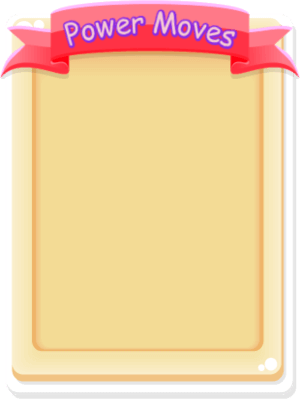
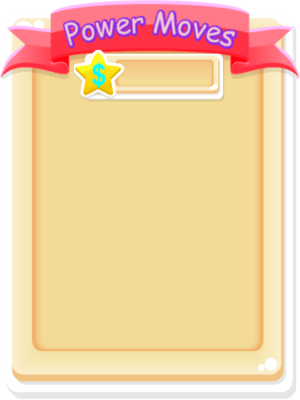
starcash

Changed region(s): [[0.24, 0.12, 0.75, 0.27]]

diff --git a/GuiFruitBubbles/bubbles.css b/GuiFruitBubbles/bubbles.css
@@ -17,7 +17,7 @@ screen.lockOrientation("portrait");
 	}
 	
 .gameSounds { display: none;}
-#fruitylogo {margin-left: 1%; top:2%;}
+#fruitylogo {margin-left: 1%; top:20%;}
 #selectPowerMove{background-image: url("Effects/powerMoveBack.png" );
 width: 95%;
 max-width: 300px;
@@ -43,7 +43,7 @@ display: block;
     background: radial-gradient(#3385ff, #ffb3d1); /* Standard syntax */
 	max-height: 100px;
 	max-width 290px;
-	margin-top: 70px;
+	margin-top: 100px;
 	margin-left: 36px;
 	margin-right: 30px;
 	clear: left;
@@ -62,8 +62,7 @@ position: relative;
 	font-weight: bold;
 	font-style:Comic Sans MS;
 	color: #cc3399;
-	
-}
+	}
 #pwr1Txt2 { transform: translate3d(-60px,55px, 0);
  font-size: 18px; font-weight: bold; text-decoration: none; 
  padding-top: 3px;
@@ -78,13 +77,23 @@ position: relative;
 	width: 75px; height: 60px; position: relative; float: left;
 	transform: translate3d(10px,-1px, 0);
 }
+#specialstarCash {
+	position: absolute;
+	margin-left: 140px;
+	top: 40px;
+	font-style: Comic Sans MS;
+	font-weight: bold;
+	font-size: 24px;
+	z-index: 2000;
+	color: #ff1493;
+}
 
 
 #levelup1 {
  position: absolute;
  left: 50%;
  transform: translate3d(-265px,0, 0); 
- top: 12%;
+ top: 5%;
  margin-left: auto;
   margin-right: auto;
   display: none;
@@ -111,8 +120,9 @@ display: none;
 }
 #starPop1 {
 	position: absolute;
-margin-top: 120px;
+margin-top: 10px;
 left: 36%;
+transform: translate(-10px,-125px);
 
 }
 
@@ -240,7 +250,7 @@ animation-name: inStreakUp;
 	top: 20%;
 	text-align: center;
 	left:50%;
-	transform: translate(-90px,-8px);
+	transform: translate(-90px,10px);
 }
 #intro {
 	position: absolute;
@@ -270,7 +280,7 @@ animation-name: inStreakUp;
 	top: 28%;
 	text-align: center;
 	left:50%;
-	transform: translate(-90px,-15px);
+	transform: translate(-90px,-5px);
 	margin-top: 10px;
 }
 #levelSelect {
@@ -280,7 +290,8 @@ transform: translate(-90px,40px);
 	position: relative;
 	display: block;
 	left: 50%;
-	transform: translate(-155px,-3px);
+	
+	transform: translate(-160px,50px);
 	max-width: 300px;
 	}
 #saveAndLoad {
@@ -494,11 +505,11 @@ margin-left: 20%;
 #starPop1 {left: 42% }
 #nice, #awesome{left: 2%; top:50%;}
 #intro { margin-left: 0%; width: 100%;}
-.introdiv {padding-left 1%; margin-left: 0%; height: 90%;}
-#fruitylogo {margin-left: 5%; height: 600px; width: 600px; top: 18%;}
-#playGame { margin-left: 5%; margin-right: 20%; width:18%; top: 30%;}
-#loadSaved{ margin-left: 5%; margin-right: 20%; width:18%; top: 35%;}
-#levelSelect {margin-left: 5%; margin-right: 20%; width:18%; top:36%;}
+.introdiv {padding-left 1%; margin-left: 0%; height: 90%; transform: translate(-150px, 200px);}
+#fruitylogo {margin-left: 5%; height: 600px;  top: 20%;}
+#playGame { margin-left: 5%; margin-right: 20%; width:18%; top: 28%;}
+#loadSaved{ margin-left: 5%; margin-right: 20%; width:18%; top: 33%;}
+#levelSelect {margin-left: 5%; margin-right: 20%; width:18%; top:35%;}
 #saveAndLoad {margin-left: 50%;}
 #hotstreak{left: 50%; transform: translate(-150px,-980px); }
 #mapDiv {
@@ -528,8 +539,8 @@ margin-left: 15%;
 #levelup1 {left: 70%}
 #starPop1 {left: 45% }
 #nice, #awesome{left: 2%; top:50%;}
-#intro { margin-left: 0%; width: 100%;}
-.introdiv {padding-left 1%; margin-left: 5%;}
+#intro { margin-left: 0%; width: 100%; }
+.introdiv {padding-left 1%; margin-left: 5%; transform: translate(-150px, 200px); }
 #fruitylogo {margin-left: 5%; height: 500px; top: 20%;}
 #playGame { margin-left: 6%; margin-right: 20%; width:20%; top: 35%;}
 #loadSaved{ margin-left: 6%; margin-right: 20%; width:20%; top: 45%;}
@@ -564,9 +575,9 @@ padding-left: 1%;
 #intro { margin-left: 0%; width: 100%;}
 .introdiv {padding-left 1%; margin-left: 1%;}
 #fruitylogo {margin-left: 0%; top:16%; width: 100%}
-#playGame { margin-left: 0%;  width:45%; top: 36%;}
-#loadSaved{ margin-left: 0%;  width:45%; top: 44%;}
-#levelSelect { margin-left: 0%;  width:45%; top: 44%;}
+#playGame { margin-left: 0%;  width:40%; top: 26%;}
+#loadSaved{ margin-left: 0%;  width:40%; top: 35%;}
+#levelSelect { margin-left: 0%;  width:40%; top: 36%;}
 #leftspot { width:120px;}
 .selectzone1 {margin-left: 30px;}
 #saveAndLoad {margin-left: 50%;}
@@ -625,9 +636,9 @@ width:635px;
 #nice, #awesome{left: 9%; top:52%;}
 #fruitylogo {margin-left: 1%; top:10%;}
 .introdiv {padding-left 0px; margin-left: 5%;}
-#playGame { margin-left: 0%; margin-right: 20%; width:40%;   top: 30%;}
-#loadSaved { margin-left: 0%; margin-right: 20%; width:40%;  top: 47%;}
-#levelSelect {transform: translate(-90px,125px); width:40%;}
+#playGame { margin-left: 0%; margin-right: 20%; width:40%;   top: 25%;}
+#loadSaved { margin-left: 0%; margin-right: 20%; width:40%;  top: 35%;}
+#levelSelect {transform: translate(-90px,100px); width:40%;}
 #leftspot { width:120px;}
 .selectzone1 {margin-left: 30px;}
 #hotstreak{left: 50%; transform: translate(-175px,-615px); }
@@ -658,9 +669,9 @@ width:555px;
 #nice, #awesome{left: 9%; top:52%;}
 #fruitylogo {margin-left: 1%; top:10%;}
 .introdiv {padding-left 0px; margin-left: 5%;}
-#playGame { margin-left: 0%; margin-right: 20%; width:40%;   top: 30%;}
-#loadSaved { margin-left: 0%; margin-right: 20%; width:40%;  top: 41%;}
-#levelSelect {transform: translate(-90px,145px); width:40%;}
+#playGame { margin-left: 0%; margin-right: 20%; width:40%;   top: 27%;}
+#loadSaved { margin-left: 0%; margin-right: 20%; width:40%;  top: 36%;}
+#levelSelect {transform: translate(-90px,100px); width:40%;}
 #leftspot { width:100px;}
 .selectzone1 {margin-left: 20px;}
 #hotstreak{left: 50%; transform: translate(-155px,-616px); }
@@ -726,16 +737,16 @@ width:500px;
 #levelup1 {margin-left: 247px;}
 #nice, #awesome{left: 9%; top:49%;}
 #fruitylogo {margin-left: 1%; top:10%;}
-.introdiv {padding-left: 10px; margin-left: 4%;}
-#playGame { margin-left: 5%; margin-right: 20%; width:50%;  padding-top: 1px; top: 32%;}
-#loadSaved { margin-left: 5%; margin-right: 20%; width:50%;  top: 41%;}
-#levelSelect {transform: translate(-75px,105px);}
+.introdiv {padding-left: 10px; margin-left: 4%; top: 10%;}
+#playGame { margin-left: 5%; margin-right: 20%; width:50%;  padding-top: 1px; top: 31%;}
+#loadSaved { margin-left: 5%; margin-right: 20%; width:50%;  top: 42%;}
+#levelSelect {transform: translate(-75px,120px);}
 #lvlSelectParent {transform: translate(-187px,-20px); width: 310px;}
 #saveAndLoad {margin-left: 50%;}
 /* #mapClose {width: 100px;} */
 #hotstreak{left: 50%; transform: translate(-150px,-583px); }
 #hotstreakTotal { margin-left: 80%;}
-#starPop1 {transform: translate(-50px, 0px); }
+#starPop1 {transform: translate(-50px, -50px); }
 .clsSpecialPowers { left: 10%;	top: 30%; max-width: 266px; max-height: 204px}
 #selectPowerMove {left: 3%; transform: translate(0px,-475px); }
 #mapDiv {

diff --git a/GuiFruitBubbles/bubbleStory0.5.js b/GuiFruitBubbles/bubbleStory0.5.js
@@ -26,7 +26,15 @@
 	var specialShot = 0;
 	var fromSpecial = false;
 	var specialActive = 0;
-	var icyCount = 1;
+	var icyCount = 0;
+	var starCash = 0;
+	var cashUp = 0;
+	if (typeof localStorage["starCash"] === "undefined") {localStorage["starCash"] = 0; starCash = 0;};
+	starCash = parseInt(localStorage["starCash"]);
+	if (typeof localStorage["icyCount"] === "undefined") {localStorage["icyCount"] = 0; icyCount= 0;};
+	icyCount = parseInt(localStorage["icyCount"]);
+	if (typeof localStorage["cashUp"] === "undefined") {localStorage["cashUp"] = 0; cashUp= 0;};
+	cashUp = parseInt(localStorage["cashUp"]);
 	
 	//sounds
 	var snd2 = new Audio("Sounds/nice.mp3"); // plays on the Nice Move message
@@ -88,6 +96,15 @@ specialMenuImage.onload = function () {
     specialMenuReady = true;
 }
 specialMenuImage.src = "Effects/specialMenuActivate.png"; 
+
+// starCash count
+	var starCashReady = false;
+var starCashImage = new Image();
+starCashImage.onload = function () {
+    starCashReady = true;
+}
+starCashImage.src = "Effects/starCashBack.png"; 
+
 
 	
 // The function gets called when the window is fully loaded
@@ -837,7 +854,7 @@ function loadOnLoad() {
 							sndI.play();
 					window.setTimeout(hideBonus, 2000);
 					};
-					if(specialShot >= 6) {specialShot = 0; fromSpecial = false;};
+					if(specialShot >= 7) {specialShot = 0; fromSpecial = false;};
                 // Get the neighbors of the current tile
 				
 		         var neighbors = getNeighbors(currenttile);
@@ -1101,7 +1118,7 @@ function loadOnLoad() {
 	// draw power move control
 		if (specialMenuReady) {
 			var specialMenux = level.x + 225;
-			var specialMenuy = level.y+level.height + level.tileheight - yoffset - 22;
+			var specialMenuy = level.y+level.height + level.tileheight - yoffset - 28;
         context.drawImage(specialMenuImage, specialMenux  , specialMenuy + 2)
     }
 	
@@ -1173,27 +1190,44 @@ function loadOnLoad() {
 				document.getElementById("hotstreak").style.display = "none";
 			 }
 			snd5.play({	volume  : "0.6"});
-			context.fillStyle = "rgba(255, 0, 0, 0.8)";
+			context.fillStyle = "rgba(0, 204, 0, 0.9)";
             context.fillRect(level.x - 4, level.y - 4, level.width + 8, level.height + 2 * level.tileheight + 8 - yoffset);
             // draw win image
 			document.getElementById("levelup1").style.display = "block";
+			var scX = level.x + (level.width / 2) - 80;
+			var scY = level.y + 265 ;
+			context.drawImage(starCashImage, scX, scY );
+			
+			 
             context.fillStyle = "#e6e600";
             context.font = "24px Verdana";
-            drawCenterText("Level Complete!", level.x, level.y + level.height / 2 + 40, level.width);
+            drawCenterText("Level Complete!", level.x, level.y + level.height / 2 + 150, level.width);
 			
 			var NextLevelBtn = new String( "Start Next Level")
 			nextLevelBtn = NextLevelBtn.bold();
-            drawCenterText(NextLevelBtn, level.x, level.y + level.height / 2 + 100, level.width);
+            drawCenterText(NextLevelBtn, level.x, level.y + level.height / 2 + 210, level.width);
 			
 			
 			//Do 1 time Level up functions
 			if (levelbump >= 1) {
-						
+					if (typeof localStorage["starCash"] === "undefined") {localStorage["starCash"] = 0; starCash = 0;};
+			 
+			 
 			//Rate number of shots to complete, save to local storage
 			var lvlRating = "LvlRating" + levelcount;
 			var lvlScore = "LvlScore" + levelcount;
+			if (typeof localStorage[lvlRating] === "undefined") {localStorage[lvlRating] = 0;};
+			cashUp = parseInt(localStorage[lvlRating]) + 2;
+			
+			localStorage["starCash"] = parseInt(localStorage["starCash"]) + cashUp;	
+			starCash = parseInt(localStorage["starCash"]);
+			
+			
 			var ratingx = level.x + 200;
 			var ratingy = level.height - 100;
+			
+			
+			
 			//3 stars
 		
 			if (parseInt(levelShotCount) <= 35) {
@@ -1225,7 +1259,9 @@ function loadOnLoad() {
 			levelShotCount = 0;
 			// end if levelbump //
 			}
-			
+			context.fillStyle = "#00ffff";
+            context.font = "24px Verdana";
+			drawCenterText("+ " + cashUp, scX -88 , scY + 37, level.width);
 			////////Load images based on level 1-6 = fruit, 7-12 = candy, 13-18 = Ghosts, 19+ space Orbs
         
 		if (parseInt(levelcount) >= 7 && parseInt(levelcount) <=12 ) {
@@ -1550,7 +1586,8 @@ function loadOnLoad() {
 	//Start the next level when level up
     function lvlUp() {
         
-        icyCount = icyCount + 1;
+        icyCount = parseInt(icyCount) + 1;
+		localStorage["icyCount"] = parseInt(icyCount);
 		document.getElementById("levelup1").style.display = "none";
 		document.getElementById("starPop1").style.display = "none";
         turncounter = 0;
@@ -1900,7 +1937,7 @@ function loadSavedLevel() {
 		}
 score = parseInt(localStorage.Score);
 if (typeof localStorage["Score"] === "undefined") {score = 0;};
-
+if (typeof localStorage["starCash"] === "undefined") {localStorage["starCash"] = 0; starCash = 0;};
 savedGameLoad = 1;
 document.getElementById("saveAndLoad").style.display = 'none'; 
 document.getElementById("intro").style.display = 'none';
@@ -2254,16 +2291,34 @@ function showSpecialSelect(){
 	
 	if (checkVisSpecial == 1) {hideSpecialSelect(); checkVisSpecial = 0;}
 	else {document.getElementById("pwr1Txt2").innerHTML = icyCount;
-	document.getElementById("selectPowerMove").style.display = 'block';
+	starCash = parseInt(localStorage["starCash"]);
+	// alert(starCash);
+	document.getElementById("specialstarCash").innerHTML = starCash;
+	document.getElementById("selectPowerMove").style.display = 'block'; 
+
 	checkVisSpecial = 1;}
 }
 //activate Special1 IcyBlast
 function activateIcy(){
+	
 	if (icyCount < 1) { return;}
 	specialShot = 1;
 	icyCount = icyCount -= 1;
 	document.getElementById("selectPowerMove").style.display = 'none';
 	document.getElementById("pwr1Txt2").innerHTML = icyCount;
+	localStorage["icyCount"] = parseInt(icyCount);
+	 
+}
+function buyIcySpecial(){
+	starCash = parseInt(localStorage["starCash"]);
+	if(starCash >= 15) {
+		starCash = starCash - 15;
+		document.getElementById("specialstarCash").innerHTML = starCash;
+		localStorage["starCash"] = starCash;
+		icyCount = parseInt(icyCount + 1);
+		localStorage["icyCount"] = parseInt(icyCount);
+		document.getElementById("pwr1Txt2").innerHTML = icyCount;
+	}
 }
 // if (icyImgReady) {
 			// var icyX = player.bubble.x;

diff --git a/GuiFruitBubbles/index.html b/GuiFruitBubbles/index.html
@@ -31,9 +31,10 @@
 <!--Hidden Popups-- Special Powers Select menu-->
 <div id ="selectPowerMove" >
 	<a id="specialClose" onclick='hideSpecialSelect()' class = "closebtns"> X </a>
+	<p id="specialstarCash" > HERE I </p>
 	<!-- Power Move 1 - Icy Blast-->
 	<div id="power-1" class ="clsSpecialSelect">
-	<a id = "getIcy" class= "getmore"><img id="buyIcy" onclick='buyIcy()' class ="clsBuyTag" src="Effects/Buy15.png"  </a>
+	<a id = "getIcy" class= "getmore"><img id="buyIcy" onclick='buyIcySpecial()' class ="clsBuyTag" src="Effects/starCash15.png"  </a>
 		 <p id = "pwr1Txt2" class = "clspowerTxt"> 5</p>
 		<img id ="pwr1Img" class = "clspowerImage" onclick='activateIcy()' src="Effects/icyBlast.gif" alt="pwrImg1" style="width:100px;height:80px; z-index: 85; float: left;">
 		
